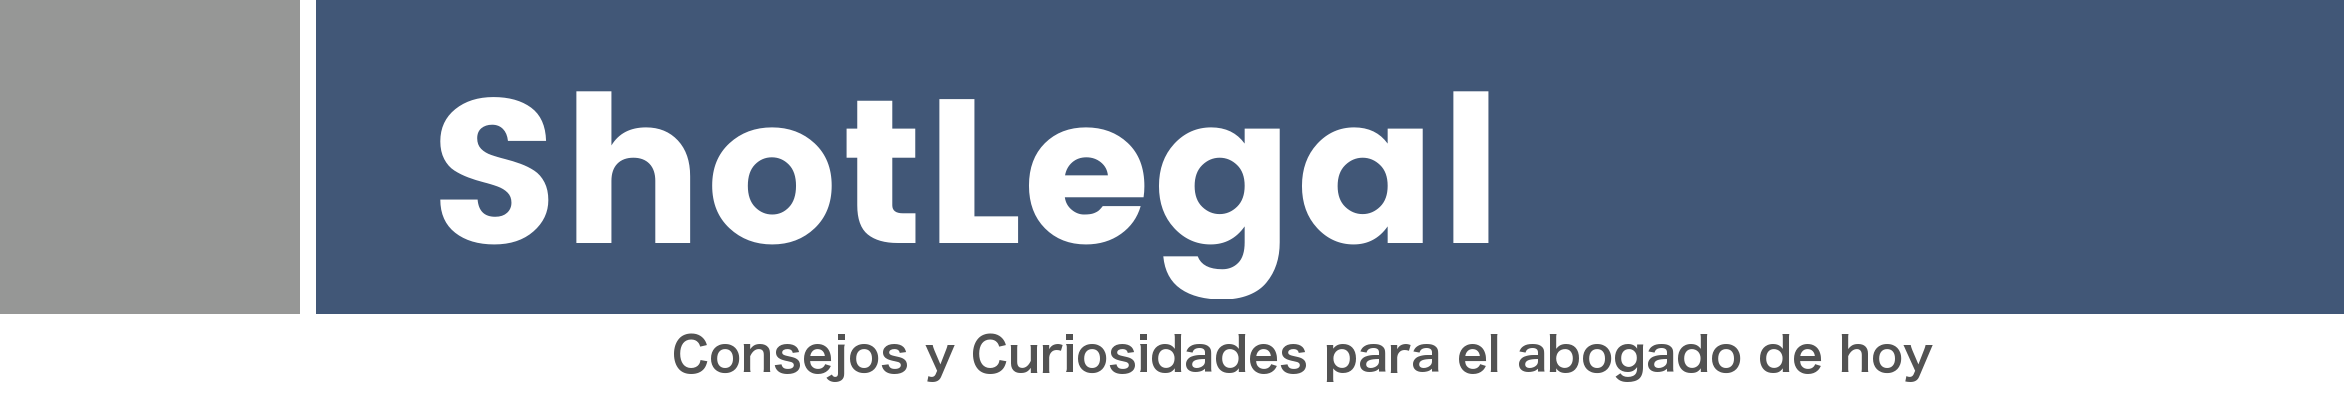
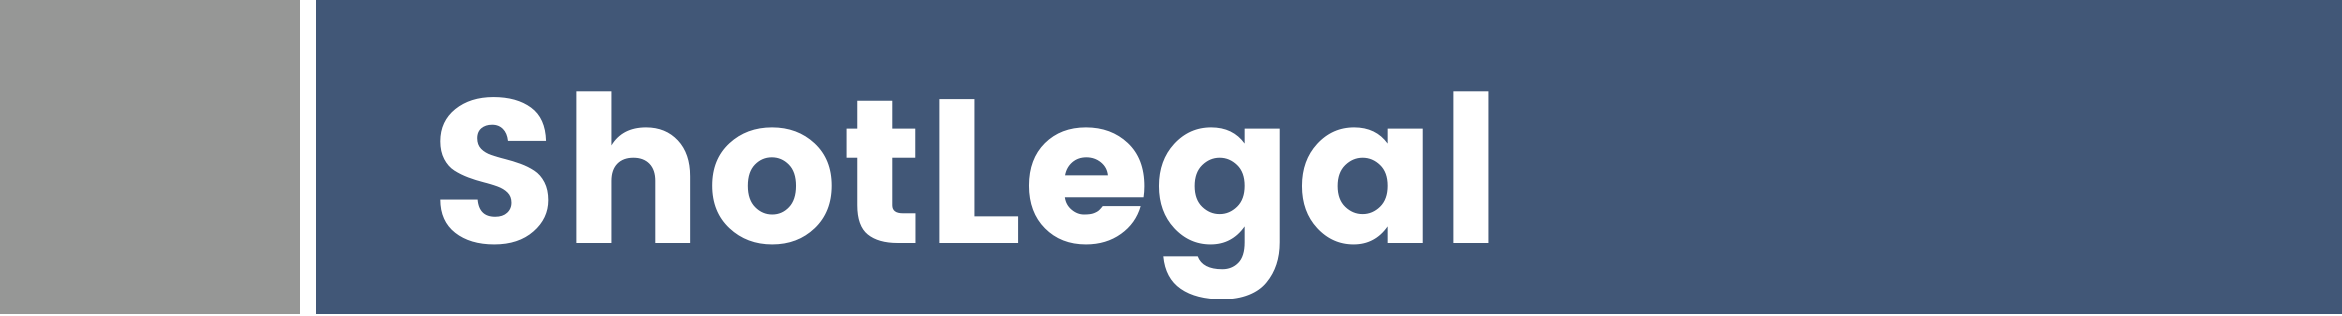
Se agrego summernote, se recorto imagen

diff --git a/home/templates/master.html b/home/templates/master.html
@@ -14,7 +14,7 @@
         <link rel="stylesheet" type="text/css" href="{% static 'libs/bootstrap/3.3.7/css/bootstrap.min.css' %}"/>
 
         <!-- PACE -->
-        <link rel="stylesheet" type="text/css" href="{% static 'libs/pace/1.0.0/pace.theme.css' %}"/>        
+        <link rel="stylesheet" type="text/css" href="{% static 'libs/pace/1.0.0/pace.theme.css' %}"/>
 
         <!-- Awesome Icons -->
         <link rel="stylesheet" type="text/css" href="{% static 'libs/awesome-icons/4.7.0/css/font-awesome.min.css' %}">
@@ -24,7 +24,7 @@
 
         {% block css %}
 
-        {% endblock css %}        
+        {% endblock css %}
 
     </head>
     <body>
@@ -40,9 +40,9 @@
                         <nav class="navbar navbar-default legalink-navbar">
 
                             <div class="container-fluid">
-                            
+
                                 <div class="navbar-header">
-                                                        
+
                                     <button type="button" class="navbar-toggle collapsed" data-toggle="collapse" data-target="#menu">
                                         <span class="sr-only">Menu</span>
                                         <span class="icon-bar"></span>
@@ -51,7 +51,7 @@
                                     </button>
 
                                     <a class="navbar-brand" href="{% url 'redaccion:post_publicados' %}">Inicio</a>
-                                    
+
                                 </div>
 
                                 <div class="collapse navbar-collapse" id="menu">
@@ -74,7 +74,7 @@
                                                     <a href="{% url 'seguridad:owner_info_edit' %}">
                                                         <i class="fa fa-info-circle" aria-hidden="true"></i>
                                                         Mi información
-                                                    </a>                                                    
+                                                    </a>
                                                     {% endif%}
 
                                                     <a href="{% url 'redaccion:post_administracion' %}">
@@ -82,7 +82,7 @@
                                                         Administracion de Posts
                                                     </a>
                                                 </li>
-                                                {% endif%}                                  
+                                                {% endif%}
                                                 <li>
                                                     <a href="{% url 'seguridad:logout' %}">
                                                         <i class="fa fa-sign-out" aria-hidden="true"></i>
@@ -92,26 +92,26 @@
                                             </ul>
                                         </li>
                                         {% else %}
-                                        
+
                                         <li><a href="{% url 'seguridad:login' %}">Login</a></li>
-                                        
+
                                         {% endif %}
                                     </ul>
                                 </div>
-                            </div>      
-                        </nav>            
-                    </header>                    
+                            </div>
+                        </nav>
+                    </header>
                 </div>
-                
+
             </div>
 
-            <div class="row">            
+            <div class="row">
                 <div class="col-xs-12">
 
                 {% block contenido %}
 
                 {% endblock contenido %}
-                    
+
                 </div>
 
             </div>
@@ -126,6 +126,9 @@
 
         <!-- Pace -->
         <script type="text/javascript" src="{% static 'libs/pace/1.0.0/pace.min.js' %}"></script>
+
+        <!-- Own's Libraries -->
+        <script type="text/javascript" src="{% static 'master.js' %}"></script>
 
         {% block scripts %}
 

diff --git a/redaccion/templates/post/post_publicados.html b/redaccion/templates/post/post_publicados.html
@@ -34,47 +34,42 @@
                 </header>
 
                 <hr class="legal-article-line">
-                
+
                 <nav class="legal-article-meta">
                     <ul>
                        <li>
                             <i class="fa fa-calendar" aria-hidden="true"></i>
-                            {{ registro.created_date|date:"M d, Y"}}                                       
-                       </li> 
+                            {{ registro.created_date|date:"M d, Y"}}
+                       </li>
                        <li>
                             <i class="fa fa-user" aria-hidden="true"></i>
-                            {{ registro.created_by  }}                               
-                       </li> 
+                            {{ registro.created_by  }}
+                       </li>
                        <li class="hidden-xs">
                             <i class="fa fa-comment-o" aria-hidden="true"></i>
                             0 comentarios
-                       </li> 
-                    </ul>                      
+                       </li>
+                    </ul>
 
                 </nav>
 
                 <div class="row">
-                    
+
                     <div class="col-xs-12 col-sm-3">
                         <section class="legal-article-image ">
                             {% if registro.imagen %}
                                 <img class="img-responsive legal-post-leftimg" src="{{ MEDIA_URL }}{{ registro.imagen }}" alt="Post Imagen">
-                            {% endif %}                    
-                        </section>                        
+                            {% endif %}
+                        </section>
 
                     </div>
 
                     <div class="col-xs-12 col-sm-9">
                         <section class="legal-article-avance">
-                            {{registro.contenido |safe|truncatechars:320 }}
-                        </section>                        
-
+                            {{registro.contenido|safe|truncatechars_html:320 }}
+                        </section>
                     </div>
-
                 </div>
-                
-
-    
 
 
                 <footer class="legal-article-botones">
@@ -85,7 +80,7 @@
                         <i class="fa fa-pencil" aria-hiden="true"></i>
                         Editar
                     </a>
-                    {% endif %}                    
+                    {% endif %}
                 </footer>
 
             </article>
@@ -116,7 +111,7 @@
             </article>
         {% endif %}
         </div>
-            
+
         <aside class="col-xs-12 col-md-3">
 
             <aside class="legal-about">
@@ -136,14 +131,14 @@
                 </section>
 
                 <section class="legal-about-info text-justify">
-                    
+
                     {{ propietario.bio|safe }}
                 </section>
 
                 <footer class="legal-about-botones">
                     <a href="{% url 'seguridad:owner_info_view' %}" class="btn btn-primary legal-about-btn-leer" role="button">Leer mas</a>
                 </footer>
-                
+
             </aside>
 
             <aside class="legal-social-media">
@@ -153,7 +148,7 @@
                 <a href="{{ propietario.telefono }}" class="fa fa-whatsapp fa-2x legal-link-facebook" aria-hidden="true"></a>
 
                 <!-- <i ></i> -->
-            </aside>            
+            </aside>
 
         </aside>
 

diff --git a/redaccion/templates/post/post_form.html b/redaccion/templates/post/post_form.html
@@ -6,11 +6,12 @@
 
 {% block css %}
 
-    <!-- Bootstrap WYSIHTML5 -->
-    <link rel="stylesheet" href="{% static 'libs/bootstrap-wysihtml5/bootstrap3-wysihtml5.min.css' %}">
+    <!-- Summernote -->
+    <link rel="stylesheet" type="text/css" href="{% static 'libs/summernote/0.8.3/summernote.css' %}"/>
 
     <!-- Legalink's Styles -->
     <link rel="stylesheet" href="{% static 'post/post_form.css' %}" type="text/css"/>
+
 
 {% endblock css %}
 
@@ -22,14 +23,14 @@
     <div class="row">
         <div class="col-xs-12">
             <article class="legal-article">
-                
+
                 <header>
                     {% if operacion == "Editar" %}
                     <h3 class="legal-titulo">Edicion del Post: {{form.instance.pk}} </h3>
                     <button type="button" class="btn btn-danger pull-right legal-btn-eliminar">
                         <i class="fa fa-trash-o" aria-hiden="true"></i>
                         <span class="hidden-xs">Eliminar</span>
-                        
+
                     </button>
                     {% else %}
                     <h3 class="legal-titulo">Crear Post </h3>
@@ -38,11 +39,11 @@
 
                 <hr class="legal-article-line">
 
-                <form 
-                action="" 
-                method="POST" 
+                <form
+                action=""
+                method="POST"
                 enctype="multipart/form-data"> {% csrf_token %}
-                
+
                     <div class="legal-article-form">
 
                         {% tag_input form.titulo %}
@@ -74,10 +75,10 @@
 
 {% block scripts %}
 
-    <!-- Bootstrap WYSIHTML5 -->
-    <script type="text/javascript" src="{% static 'libs/bootstrap-wysihtml5/bootstrap3-wysihtml5.all.min.js' %}"></script>
+    <!-- Summernote -->
+    <script type="text/javascript" src="{% static 'libs/summernote/0.8.3/summernote.min.js' %}"></script>
 
     <!-- Legalink's Scripts -->
-    <script type="text/javascript" src="{% static 'post/post_form.js' %}"></script>    
+    <script type="text/javascript" src="{% static 'post/post_form.js' %}"></script>
 
 {% endblock scripts %}

diff --git a/redaccion/static/post/post_form.js b/redaccion/static/post/post_form.js
@@ -10,7 +10,7 @@ var formulario = null
 \*-----------------------------------------------*/
 
 $(document).ready(function () {
-    formulario = new TargetaFormulario() 
+    formulario = new TargetaFormulario()
 })
 
 
@@ -19,7 +19,7 @@ $(document).ready(function () {
             OBJETO: TargetaFormulario
 \*-----------------------------------------------*/
 
-function TargetaFormulario() { 
+function TargetaFormulario() {
 
     this.$contenido = $('#id_contenido')
 
@@ -27,18 +27,18 @@ function TargetaFormulario() {
 }
 TargetaFormulario.prototype.init_Components = function () {
 
+    this.$contenido.summernote({ height: 300 });
+    // this.$contenido.wysihtml5({
+    //     toolbar: {
+    //         "font-styles": true,
+    //         "emphasis": true,
+    //         "lists": true,
+    //         "html": false,
+    //         "link": false,
+    //         "image": false,
+    //         "color": false,
+    //         "blockquote": false,
+    //     }
+    // })
 
-    this.$contenido.wysihtml5({
-        toolbar: {
-            "font-styles": true,
-            "emphasis": true,
-            "lists": true,
-            "html": false,
-            "link": false,
-            "image": false,
-            "color": false,
-            "blockquote": false,
-        }
-    })
-    
 }

diff --git a/redaccion/static/post/post_publicados.css b/redaccion/static/post/post_publicados.css
@@ -34,7 +34,7 @@
     /* margin-bottom: 3em; */
     margin-bottom: 0px;
     border-radius: 4px;
-    
+
     border: 1px solid #ddd;
 }
 
@@ -58,22 +58,22 @@
 
     .legal-about-info {
         /*  */
-        padding: 0 1em 0        
+        padding: 0 1em 0
     }
 
     .legal-article-avance {
 
-    }    
+    }
 
     .legal-about-botones {
         padding: .5em 0;
-        text-align: center;        
+        text-align: center;
     }
 
         .legal-about-botones .legal-about-btn-leer {
             background-color: #424E5D;
-            color: white;   
-            margin-bottom: .5em;         
+            color: white;
+            margin-bottom: .5em;
         }
 
 
@@ -81,12 +81,12 @@
 
     .legal-btn-editar {
         display: block;
-        margin-top: -30px !important; 
+        margin-top: -30px !important;
     }
-    
+
     .legal-post-leftimg {
         margin-left: 2em;
-        margin-top: 1.8em;
+        /*margin-top: 1.8em;*/
     }
 
     .legal-social-media .legal-link-facebook {
@@ -98,5 +98,3 @@
     }
 
 }
-
-

diff --git a/home/static/master.js b/home/static/master.js
@@ -1,0 +1,12 @@
+
+/* ------------------------ LOAD ------------------------ */
+
+$(document).ready(function () {
+    window.paceOptions = {
+        // Disable the 'elements' source
+        elements: false,
+        // Only show the progress on regular and ajax-y page navigation,
+        // not every request
+        restartOnRequestAfter: false,
+    }
+})
